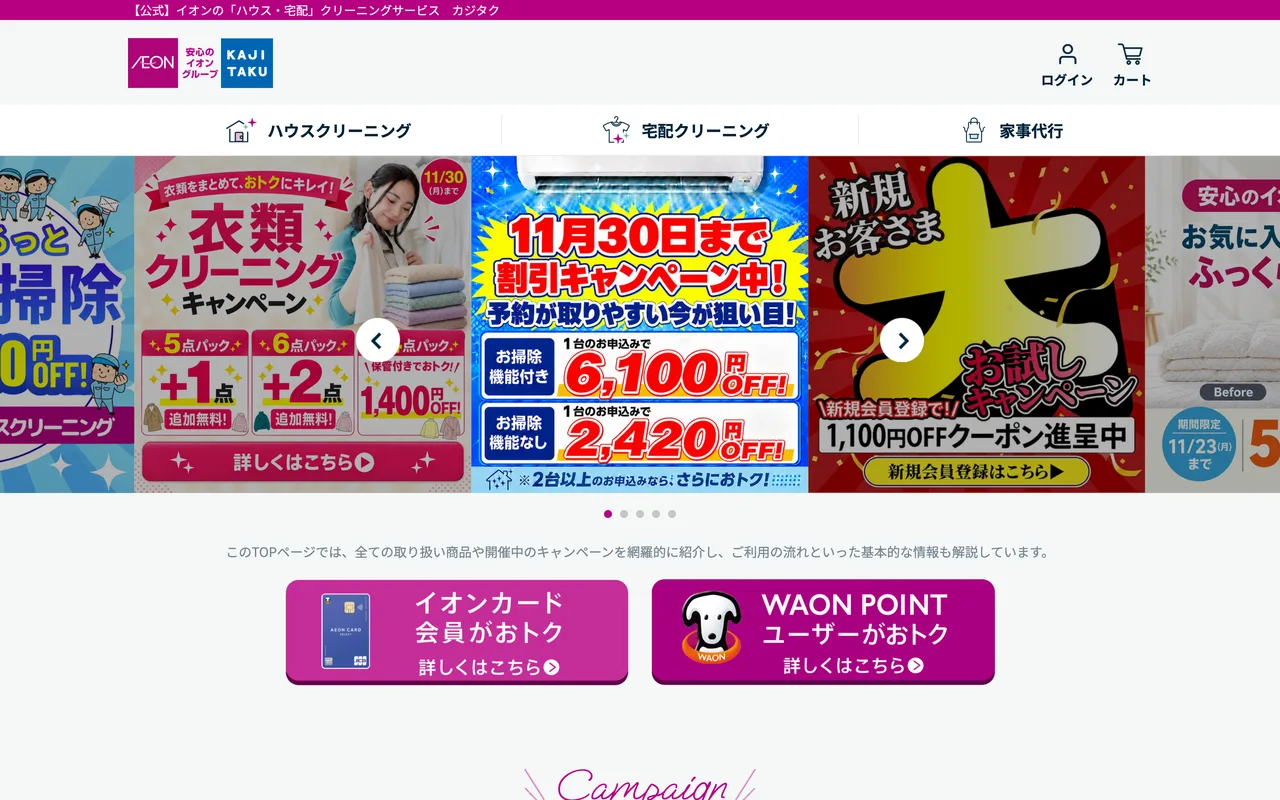
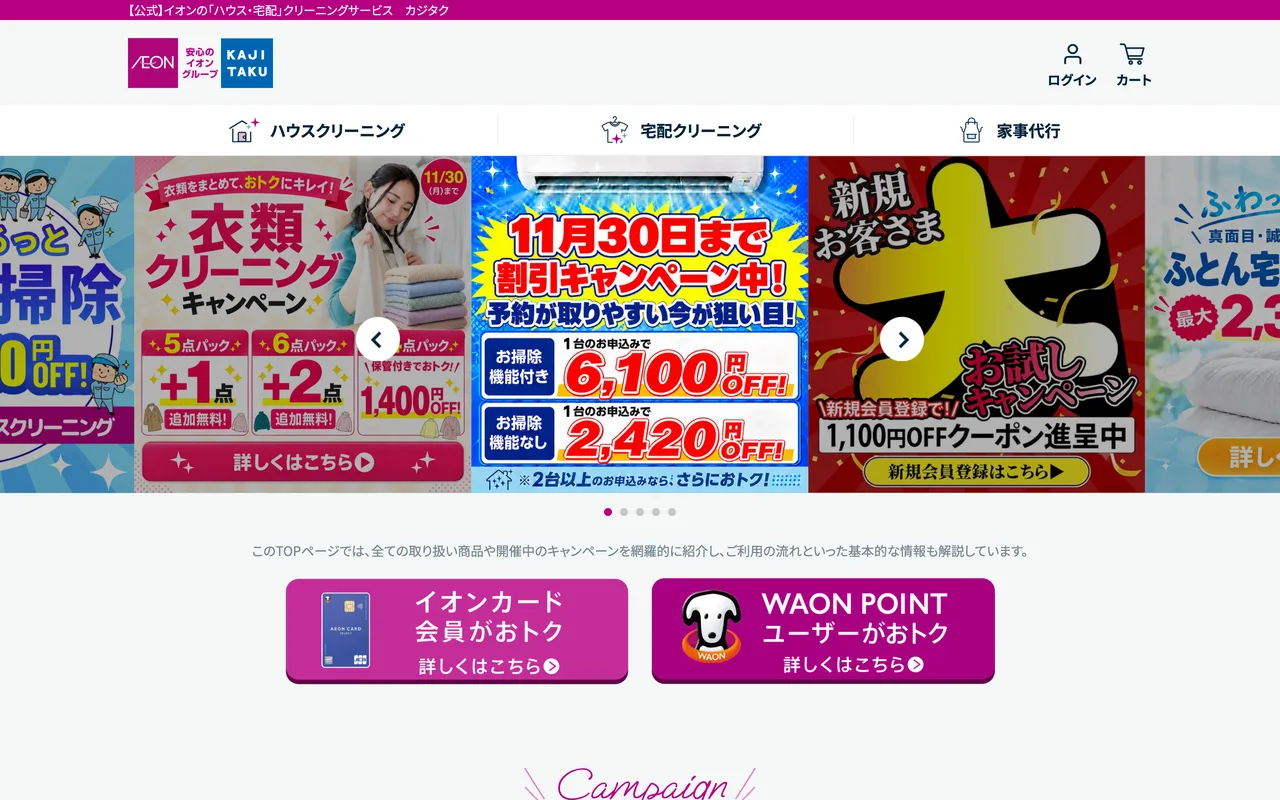
月次: 業者枠の公式サイトキャプチャ20社を撮り直し（2026-11-01）

diff --git a/CLAUDE.md b/CLAUDE.md
@@ -400,3 +400,8 @@ GSC実数診断:
   - メモ: エアコンページの「サービス提供地域は？（東京・千葉・神奈川・埼玉・茨城・福岡・愛知・札幌）」FAQ は HTML コメントアウト（非表示）。表示は h1「関東の」・meta「東京、千葉、神奈川、埼玉」= 当サイトの記載どおり。ハウスワイドの表示画像 alt は7地域・meta は4都県（表示側＝当サイトの記載を維持）。特商法のサービス提供エリアは「北海道、茨城、埼玉、千葉、東京、神奈川、大阪、兵庫、福岡」（愛知なし・支店一覧には名古屋＝春日井市あり）。浴室・キッチン料金は今も画像のみ、キャンセル規定は記載なし
 - confirmedAt 3社 10/9→10/31。out: 文言が変わった HTML 4頁（review/・kireiyu・seifu・nac-duskin）・計測リンク 676→676・precheck 全項目OK・sitemap lastmod 4（2026-10-31）
 - 11/1 月次の事前確認（実行せず）: scripts/capture-partners/run.sh・cap.mjs・cap-click.mjs・scripts/refresh-official-ratings.py あり、Chrome・node v25・PIL あり。partner-captures.json は20社（run.sh コメントの「全13社」は古い）・撮影元は全て公式ドメイン。本舗はポップアップのため cap-click.mjs で撮る（run.sh の webp 変換は run.sh 内だけ＝cap-click 後は変換を別途）。自動実行（cron/launchd）の登録はなし＝ルーチンで手動実行
+
+### 2026-11-01 月次：業者枠キャプチャ撮り直し（20社）
+- `bash scripts/capture-partners/run.sh`（20社）→ 本舗は cap-click.mjs で撮って webp 変換。全20枚を目視：ベアーズだけ LINE 友だち募集のポップアップが写った（固定位置・出たり出なかったりする）→ 撮り直し（クリック座標方式はポップアップ未表示のときにリンクを踏んで別ページになった＝不可。/tmp で fixed 要素を消す版を作って撮影、今回はポップアップ無しで撮れた）。おそうじラボは 10/16 と同じ構図（左がロゴの帯）で正常
+- 写っている先方のキャンペーン表示：カジタク「11月30日まで」・東京ガス「注文期間 10/12〜11/8」・アールクリーニング「11月10日まで」・110番「東証上場企業運営」（公式トップの表示のまま）
+- partner-captures.json の captured_at 20社とも 2026-11-01。precheck 全項目OK
